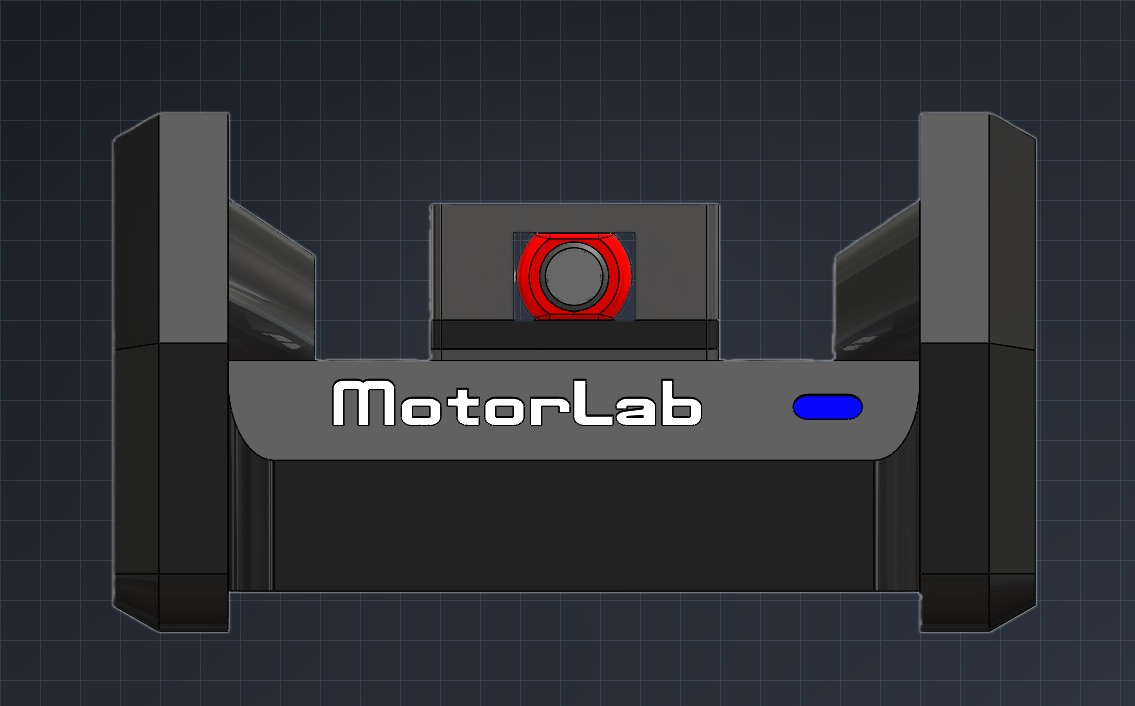
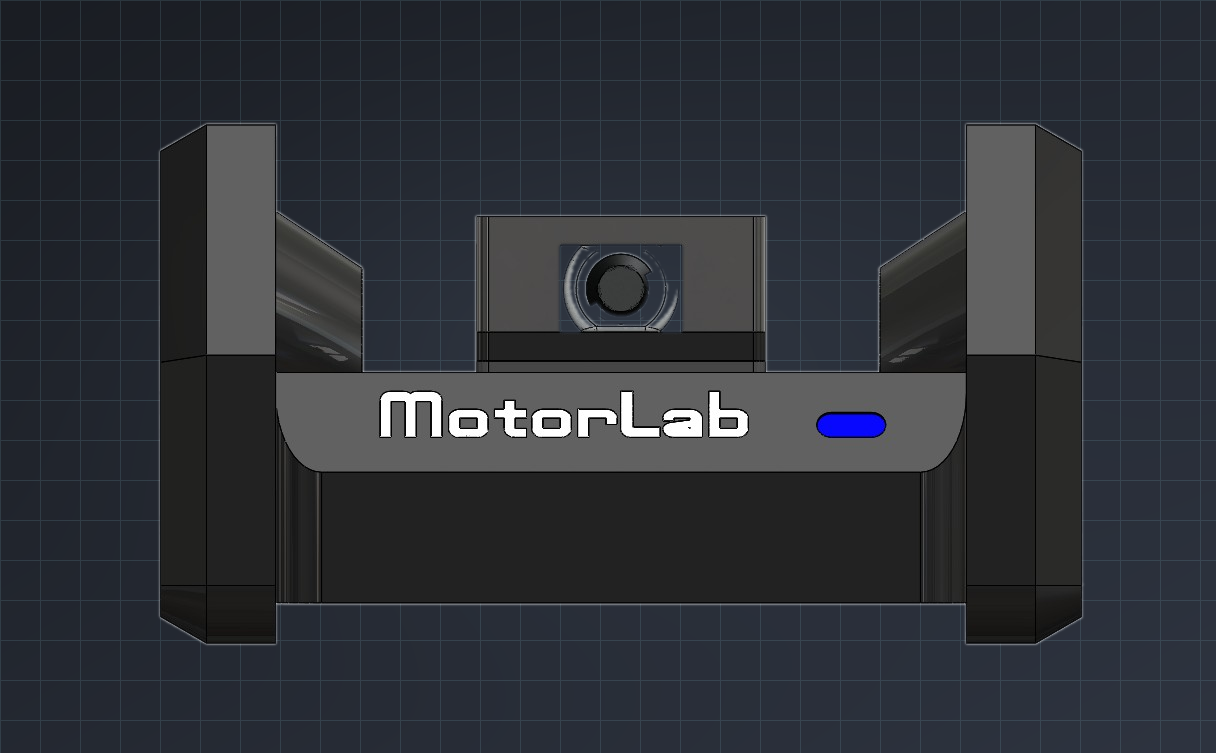
Refresh /system/ product renders from new .jpg sources
Regenerate images/og/* from the higher-quality V1-1..V1-5 .jpg renders
uploaded in d214bbb; drop the obsolete .png source renders. The new
renders use a bare-metal clamp instead of red, so _process_images.py now
also flags see-through pockets by adjacency to a solid bright-metal blob
(eroded to ignore thin logo AA), not just red saturation. Logo wordmark
and flywheel etch are preserved; HTML unchanged (same image paths).

diff --git a/_process_images.py b/_process_images.py
@@ -62,18 +62,26 @@ def compose_product(path, out):
     minc = arr.min(2)
     maxc = arr.max(2)
     sat = maxc - minc
+    bri = arr.mean(2)
 
-    # Interior pure-white = either logo paint (neutral surroundings) or a
-    # see-through pocket in the mount (surrounded by the saturated red clamp).
-    # Classify each blob by the saturation of its neighbouring ring.
-    interior = (minc >= 245) & ~border
+    # Solid bright-metallic blobs (the clamp) — erode first so thin AA edges
+    # around the logo letters don't count, leaving only chunky metal regions.
+    metal = (~border) & (bri >= 138) & (bri <= 238) & (sat < 40) & (minc < 238)
+    metal_zone = ndimage.binary_dilation(
+        ndimage.binary_erosion(metal, iterations=3), iterations=5)
+
+    # Interior near-white = either logo paint (sits on the dark housing) or a
+    # see-through pocket in the mount (hugs the clamp: red OR bare metal).
+    interior = (minc >= 240) & ~border
     lbl, n = ndimage.label(interior)
     logo = np.zeros_like(interior)
     pocket = np.zeros_like(interior)
     for cid in range(1, n + 1):
         comp = lbl == cid
         ring = ndimage.binary_dilation(comp, iterations=4) & ~comp
-        if sat[ring].max() > 80:          # touches the red clamp -> backdrop pocket
+        touches_red = sat[ring].max() > 80
+        touches_metal = (ring & metal_zone).sum() / max(ring.sum(), 1) > 0.08
+        if touches_red or touches_metal:   # backdrop pocket around the clamp
             pocket |= comp
         else:                              # surrounded by housing -> logo paint
             logo |= comp
@@ -115,6 +123,6 @@ if __name__ == "__main__":
     import os
     os.makedirs("images/og", exist_ok=True)
     for n in range(1, 6):
-        compose_product(f"images/MotorLab_V1-{n}.png", f"images/og/MotorLab_V1-{n}.png")
+        compose_product(f"images/MotorLab_V1-{n}.jpg", f"images/og/MotorLab_V1-{n}.png")
     compose_blueprint("images/MotorLab_3D_20260515.PNG", "images/og/MotorLab_dimensions.png")
     print("done")
